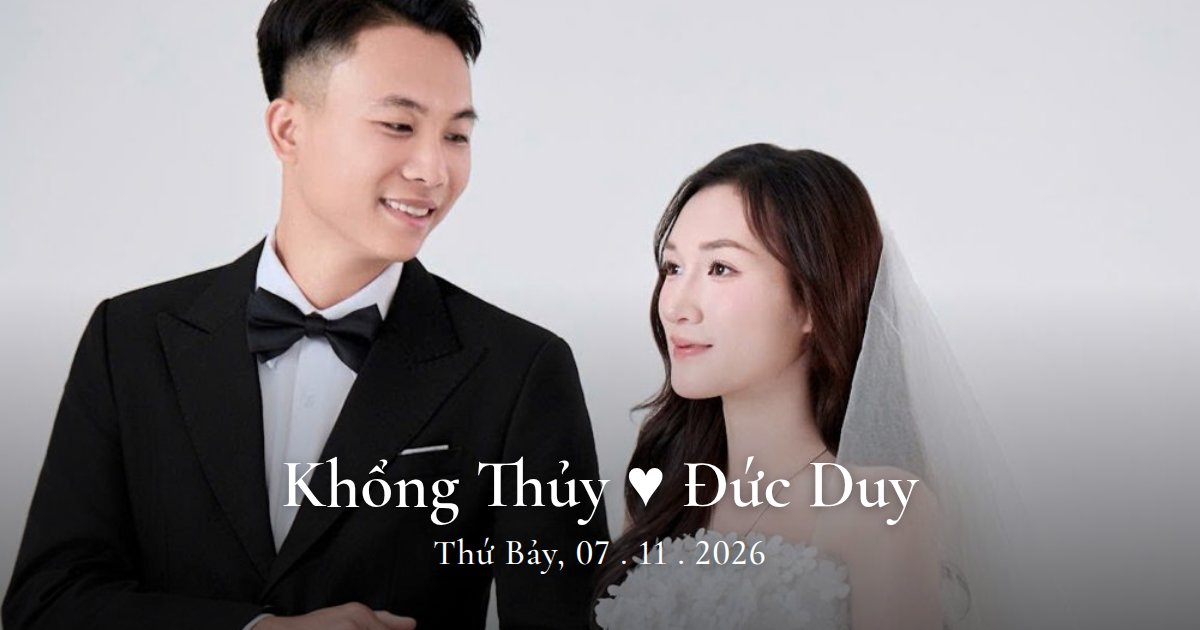
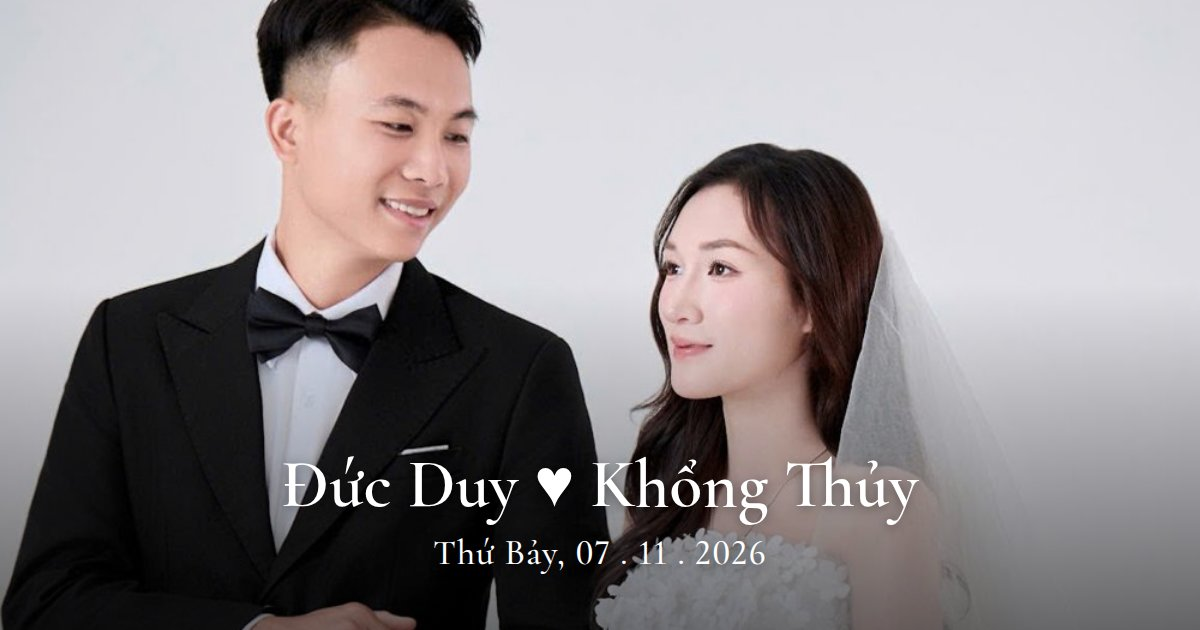
feat: thiệp Đức Duy & Khổng Thủy — tên chú rể đứng trước theo yêu cầu khách (issue #23)

Changed region(s): [[0.2467, 0.7238, 0.74, 0.8444]]

diff --git a/dist/assets/index-DEzTMPpJ.js b/dist/assets/index-DEzTMPpJ.js
@@ -97,7 +97,7 @@ Error generating stack: `+i.message+`
  *
  * This source code is licensed under the ISC license.
  * See the LICENSE file in the root directory of this source tree.
- */const ep=yt("X",[["path",{d:"M18 6 6 18",key:"1bl5f8"}],["path",{d:"m6 6 12 12",key:"d8bk6v"}]]),rl="Số nhà 8, ngõ Mã Lẽ 2, thôn Thống Nhất, xã Phùng Nguyên, tỉnh Phú Thọ",Hi="Số nhà 50, ngõ Sa Lộc 4, thôn Tứ Xã, xã Phùng Nguyên, tỉnh Phú Thọ",Xu=rl,Zu="Tứ Xã, Lâm Thao, Phú Thọ",tp={label:"Nhà Gái",father:"Khổng Văn Xuân",mother:"Khổng Thị Sơn",address:rl},np={label:"Nhà Trai",father:"Chử Đức Thụy",mother:"Khổng Thị Phương",address:Hi},rp={hero:{names:["Khổng Thủy","Đức Duy"]},couple:{groom:{role:"Chú rể",name:"Đức Duy"},bride:{role:"Cô dâu",name:"Khổng Thủy"}},families:{sides:[np,tp],fullNames:["Khổng Thủy","Đức Duy"]},invitation:{kicker:"Trân Trọng Kính Mời",defaultGuest:"Quý khách",title:"Đến Dự Và Chia Sẻ Niềm Vui",dateParts:["07","11","2026"]},events:{mapLabel:"Xem vị trí",items:[{id:"tiec-mung-cuoi",title:"Tiệc Mừng Cưới",time:"16:00 | Thứ Sáu",date:"06. 11. 2026",lunar:"( Tức Ngày 28 Tháng 09 Năm Bính Ngọ )",places:[{label:"Tại Tư Gia Nhà Trai",address:Hi,mapQuery:Zu},{label:"Tại Tư Gia Nhà Gái",address:rl,mapQuery:Xu}]},{id:"vu-quy",title:"Lễ Vu Quy",time:"08:30 | Thứ Bảy",date:"07. 11. 2026",lunar:"( Tức Ngày 29 Tháng 09 Năm Bính Ngọ )",note:"Nhà trai xuất phát đón dâu lúc 08:05",places:[{label:"Tại Tư Gia Nhà Gái",address:rl,mapQuery:Xu}]},{id:"thanh-hon",title:"Lễ Thành Hôn",time:"10:00 | Thứ Bảy",date:"07. 11. 2026",lunar:"( Tức Ngày 29 Tháng 09 Năm Bính Ngọ )",places:[{label:"Tại Tư Gia Nhà Trai",address:Hi,mapQuery:Zu}]}]},countdown:{title:"Đếm Ngược Ngày Vui",target:"2026-11-07T10:00:00+07:00",labels:["Ngày","Giờ","Phút","Giây"]},calendar:{dateIso:"2026-11-07"},rsvp:{show:!1},gift:{button:"Gửi Mừng Cưới",title:"Hộp Quà Mừng Cưới",copyLabel:"Copy STK",copiedLabel:"Đã copy",saveQrLabel:"Lưu ảnh QR",accounts:[{holder:"CHU DUC DUY",number:"81996199688888",bank:"MB Bank",qr:"/images/qr-mbbank.png"},{holder:"KHONG THI THUY",number:"1032473835",bank:"Vietcombank",qr:"/images/qr-vietcombank.png"}]},thanks:{title:"Thank You",text:"Từ tận đáy lòng, chúng mình cảm ơn bạn đã dành tình cảm và sự hiện diện cho ngày vui này. Chính bạn đã góp phần làm nên một kỷ niệm hạnh phúc mà chúng mình sẽ luôn trân trọng."},music:{src:"/music/beautiful-in-white.mp3",volume:.45}},Se={hero:"/images/studio-1.jpg",polaroids:["/images/no-1.jpg","/images/no-4.jpg"],dateStrip:["/images/studio-2.jpg","/images/aodai-1.jpg","/images/no-3.jpg"],circle:"/images/aodai-3.jpg",album:["/images/aodai-2.jpg","/images/no-2.jpg","/images/no-5.jpg","/images/aodai-4.jpg","/images/studio-4.jpg","/images/studio-3.jpg","/images/aodai-1.jpg","/images/no-1.jpg"],gift:"/images/no-4.jpg",thankYou:"/images/studio-3.jpg",deco:{saveTheDate:"/images/deco-save-the-date.png",weekdays:"/images/deco-weekdays.png",album:"/images/deco-album.png",leafRing:"/images/deco-leaf-ring.png"}},Ju="guest-links:names",lp="/tao-link";function ip(){try{return window.location.pathname.replace(/\/+$/,"")===lp}catch{return!1}}function Xl(e,t){return`${e}/?khach=${encodeURIComponent(t)}`}async function op(e){try{return await navigator.clipboard.writeText(e),!0}catch{const t=document.createElement("textarea");t.value=e,t.style.position="fixed",t.style.opacity="0",document.body.appendChild(t),t.select();const n=document.execCommand("copy");return document.body.removeChild(t),n}}function qu({text:e,label:t="Sao chép",className:n=""}){const[r,l]=L.useState(!1);async function i(){await op(e)&&(l(!0),setTimeout(()=>l(!1),1500))}return f.jsxs("button",{type:"button",onClick:i,className:`inline-flex shrink-0 items-center gap-1.5 rounded-lg px-3 py-1.5 text-sm font-semibold transition ${r?"bg-green-600 text-white":"bg-[#9e3745] text-white hover:bg-[#7e2b37]"} ${n}`,children:[r?f.jsx(hc,{className:"h-4 w-4","aria-hidden":!0}):f.jsx(vc,{className:"h-4 w-4","aria-hidden":!0}),r?"Đã chép":t]})}function up(){const e=L.useMemo(()=>window.location.origin,[]),[t,n]=L.useState(()=>{try{return localStorage.getItem(Ju)??""}catch{return""}}),[r,l]=L.useState(!0);L.useEffect(()=>{try{localStorage.setItem(Ju,t)}catch{}},[t]);const i=L.useMemo(()=>{const s=new Set;return t.split(`
+ */const ep=yt("X",[["path",{d:"M18 6 6 18",key:"1bl5f8"}],["path",{d:"m6 6 12 12",key:"d8bk6v"}]]),rl="Số nhà 8, ngõ Mã Lẽ 2, thôn Thống Nhất, xã Phùng Nguyên, tỉnh Phú Thọ",Hi="Số nhà 50, ngõ Sa Lộc 4, thôn Tứ Xã, xã Phùng Nguyên, tỉnh Phú Thọ",Xu=rl,Zu="Tứ Xã, Lâm Thao, Phú Thọ",tp={label:"Nhà Gái",father:"Khổng Văn Xuân",mother:"Khổng Thị Sơn",address:rl},np={label:"Nhà Trai",father:"Chử Đức Thụy",mother:"Khổng Thị Phương",address:Hi},rp={hero:{names:["Đức Duy","Khổng Thủy"]},couple:{groom:{role:"Chú rể",name:"Đức Duy"},bride:{role:"Cô dâu",name:"Khổng Thủy"}},families:{sides:[np,tp],fullNames:["Đức Duy","Khổng Thủy"]},invitation:{kicker:"Trân Trọng Kính Mời",defaultGuest:"Quý khách",title:"Đến Dự Và Chia Sẻ Niềm Vui",dateParts:["07","11","2026"]},events:{mapLabel:"Xem vị trí",items:[{id:"tiec-mung-cuoi",title:"Tiệc Mừng Cưới",time:"16:00 | Thứ Sáu",date:"06. 11. 2026",lunar:"( Tức Ngày 28 Tháng 09 Năm Bính Ngọ )",places:[{label:"Tại Tư Gia Nhà Trai",address:Hi,mapQuery:Zu},{label:"Tại Tư Gia Nhà Gái",address:rl,mapQuery:Xu}]},{id:"vu-quy",title:"Lễ Vu Quy",time:"08:30 | Thứ Bảy",date:"07. 11. 2026",lunar:"( Tức Ngày 29 Tháng 09 Năm Bính Ngọ )",note:"Nhà trai xuất phát đón dâu lúc 08:05",places:[{label:"Tại Tư Gia Nhà Gái",address:rl,mapQuery:Xu}]},{id:"thanh-hon",title:"Lễ Thành Hôn",time:"10:00 | Thứ Bảy",date:"07. 11. 2026",lunar:"( Tức Ngày 29 Tháng 09 Năm Bính Ngọ )",places:[{label:"Tại Tư Gia Nhà Trai",address:Hi,mapQuery:Zu}]}]},countdown:{title:"Đếm Ngược Ngày Vui",target:"2026-11-07T10:00:00+07:00",labels:["Ngày","Giờ","Phút","Giây"]},calendar:{dateIso:"2026-11-07"},rsvp:{show:!1},gift:{button:"Gửi Mừng Cưới",title:"Hộp Quà Mừng Cưới",copyLabel:"Copy STK",copiedLabel:"Đã copy",saveQrLabel:"Lưu ảnh QR",accounts:[{holder:"CHU DUC DUY",number:"81996199688888",bank:"MB Bank",qr:"/images/qr-mbbank.png"},{holder:"KHONG THI THUY",number:"1032473835",bank:"Vietcombank",qr:"/images/qr-vietcombank.png"}]},thanks:{title:"Thank You",text:"Từ tận đáy lòng, chúng mình cảm ơn bạn đã dành tình cảm và sự hiện diện cho ngày vui này. Chính bạn đã góp phần làm nên một kỷ niệm hạnh phúc mà chúng mình sẽ luôn trân trọng."},music:{src:"/music/beautiful-in-white.mp3",volume:.45}},Se={hero:"/images/studio-1.jpg",polaroids:["/images/no-1.jpg","/images/no-4.jpg"],dateStrip:["/images/studio-2.jpg","/images/aodai-1.jpg","/images/no-3.jpg"],circle:"/images/aodai-3.jpg",album:["/images/aodai-2.jpg","/images/no-2.jpg","/images/no-5.jpg","/images/aodai-4.jpg","/images/studio-4.jpg","/images/studio-3.jpg","/images/aodai-1.jpg","/images/no-1.jpg"],gift:"/images/no-4.jpg",thankYou:"/images/studio-3.jpg",deco:{saveTheDate:"/images/deco-save-the-date.png",weekdays:"/images/deco-weekdays.png",album:"/images/deco-album.png",leafRing:"/images/deco-leaf-ring.png"}},Ju="guest-links:names",lp="/tao-link";function ip(){try{return window.location.pathname.replace(/\/+$/,"")===lp}catch{return!1}}function Xl(e,t){return`${e}/?khach=${encodeURIComponent(t)}`}async function op(e){try{return await navigator.clipboard.writeText(e),!0}catch{const t=document.createElement("textarea");t.value=e,t.style.position="fixed",t.style.opacity="0",document.body.appendChild(t),t.select();const n=document.execCommand("copy");return document.body.removeChild(t),n}}function qu({text:e,label:t="Sao chép",className:n=""}){const[r,l]=L.useState(!1);async function i(){await op(e)&&(l(!0),setTimeout(()=>l(!1),1500))}return f.jsxs("button",{type:"button",onClick:i,className:`inline-flex shrink-0 items-center gap-1.5 rounded-lg px-3 py-1.5 text-sm font-semibold transition ${r?"bg-green-600 text-white":"bg-[#9e3745] text-white hover:bg-[#7e2b37]"} ${n}`,children:[r?f.jsx(hc,{className:"h-4 w-4","aria-hidden":!0}):f.jsx(vc,{className:"h-4 w-4","aria-hidden":!0}),r?"Đã chép":t]})}function up(){const e=L.useMemo(()=>window.location.origin,[]),[t,n]=L.useState(()=>{try{return localStorage.getItem(Ju)??""}catch{return""}}),[r,l]=L.useState(!0);L.useEffect(()=>{try{localStorage.setItem(Ju,t)}catch{}},[t]);const i=L.useMemo(()=>{const s=new Set;return t.split(`
 `).map(a=>a.replace(/\s+/g," ").trim()).filter(a=>a&&!s.has(a.toLowerCase())&&s.add(a.toLowerCase()))},[t]),o=i.map(s=>r?`${s}: ${Xl(e,s)}`:Xl(e,s)),u=document.title;return f.jsx("div",{className:"min-h-screen bg-[#f8f6f2] px-4 py-8 font-sans text-[#1f1f1f]",children:f.jsxs("main",{className:"mx-auto max-w-[640px]",children:[f.jsx("h1",{className:"text-2xl font-bold",children:"Tạo link mời khách"}),f.jsxs("p",{className:"mt-1 text-sm text-black/60",children:["Thiệp: ",f.jsx("b",{children:u})]}),f.jsx("label",{className:"mt-6 block text-sm font-semibold",htmlFor:"guest-names",children:"Tên khách mời — mỗi dòng một người, ghi cả xưng hô (vd: Cô Lan, Gia đình bác Hùng, Anh Tuấn)"}),f.jsx("textarea",{id:"guest-names",value:t,onChange:s=>n(s.target.value),rows:8,placeholder:`Cô Lan
 Gia đình bác Hùng
 Anh Tuấn & chị Mai`,className:"mt-2 w-full rounded-xl border border-black/20 bg-white p-3 text-base outline-none focus:border-[#9e3745]"}),f.jsx("p",{className:"mt-1 text-xs text-black/50",children:"Danh sách được lưu trên trình duyệt này, mở lại trang vẫn còn."}),i.length>0&&f.jsxs(f.Fragment,{children:[f.jsxs("div",{className:"mt-6 flex flex-wrap items-center justify-between gap-3",children:[f.jsxs("p",{className:"font-semibold",children:[i.length," link"]}),f.jsxs("div",{className:"flex items-center gap-3",children:[f.jsxs("label",{className:"flex items-center gap-1.5 text-sm",children:[f.jsx("input",{type:"checkbox",checked:r,onChange:s=>l(s.target.checked)}),"Kèm tên khi chép tất cả"]}),f.jsx(qu,{text:o.join(`

diff --git a/dist/index.html b/dist/index.html
@@ -3,20 +3,20 @@
   <head>
     <meta charset="UTF-8" />
     <meta name="viewport" content="width=device-width, initial-scale=1.0" />
-    <title>Khổng Thủy &amp; Đức Duy</title>
-    <meta name="description" content="Thiệp cưới Khổng Thủy &amp; Đức Duy — Thứ Bảy, 07.11.2026. Trân trọng kính mời." />
+    <title>Đức Duy &amp; Khổng Thủy</title>
+    <meta name="description" content="Thiệp cưới Đức Duy &amp; Khổng Thủy — Thứ Bảy, 07.11.2026. Trân trọng kính mời." />
     <!-- Link preview (Zalo, Facebook, iMessage, v.v.) dùng og:title / og:description -->
     <meta property="og:type" content="website" />
-    <meta property="og:site_name" content="Khổng Thủy &amp; Đức Duy" />
-    <meta property="og:title" content="Khổng Thủy &amp; Đức Duy" />
-    <meta property="og:description" content="Thiệp cưới Khổng Thủy &amp; Đức Duy — Thứ Bảy, 07.11.2026. Trân trọng kính mời." />
+    <meta property="og:site_name" content="Đức Duy &amp; Khổng Thủy" />
+    <meta property="og:title" content="Đức Duy &amp; Khổng Thủy" />
+    <meta property="og:description" content="Thiệp cưới Đức Duy &amp; Khổng Thủy — Thứ Bảy, 07.11.2026. Trân trọng kính mời." />
     <meta property="og:locale" content="vi_VN" />
     <meta property="og:image" content="https://khongthuy-ducduy.vercel.app/images/og.jpg" />
     <meta property="og:image:width" content="1200" />
     <meta property="og:image:height" content="630" />
     <meta name="twitter:card" content="summary_large_image" />
-    <meta name="twitter:title" content="Khổng Thủy &amp; Đức Duy" />
-    <meta name="twitter:description" content="Thiệp cưới Khổng Thủy &amp; Đức Duy — Thứ Bảy, 07.11.2026. Trân trọng kính mời." />
+    <meta name="twitter:title" content="Đức Duy &amp; Khổng Thủy" />
+    <meta name="twitter:description" content="Thiệp cưới Đức Duy &amp; Khổng Thủy — Thứ Bảy, 07.11.2026. Trân trọng kính mời." />
     <meta name="twitter:image" content="https://khongthuy-ducduy.vercel.app/images/og.jpg" />
     <link rel="preconnect" href="https://fonts.googleapis.com" />
     <link rel="preconnect" href="https://fonts.gstatic.com" crossorigin />
@@ -24,7 +24,7 @@
       href="https://fonts.googleapis.com/css2?family=Cormorant+Garamond:ital,wght@0,400;0,500;0,700;1,400&family=Cormorant+Upright:wght@400;600;700&family=Ephesis&family=Great+Vibes&family=Imperial+Script&family=Lora:wght@400;700&family=Montserrat:wght@400;500;600;700&family=Oswald:wght@400;500;700&family=Prata&family=Quicksand:wght@400;500;600;700&family=Tinos:ital,wght@0,400;0,700;1,400&display=swap"
       rel="stylesheet"
     />
-    <script type="module" crossorigin src="/assets/index-BdLiyEoo.js"></script>
+    <script type="module" crossorigin src="/assets/index-DEzTMPpJ.js"></script>
     <link rel="stylesheet" crossorigin href="/assets/index-BvgmNY9y.css">
   </head>
   <body>

diff --git a/index.html b/index.html
@@ -3,20 +3,20 @@
   <head>
     <meta charset="UTF-8" />
     <meta name="viewport" content="width=device-width, initial-scale=1.0" />
-    <title>Khổng Thủy &amp; Đức Duy</title>
-    <meta name="description" content="Thiệp cưới Khổng Thủy &amp; Đức Duy — Thứ Bảy, 07.11.2026. Trân trọng kính mời." />
+    <title>Đức Duy &amp; Khổng Thủy</title>
+    <meta name="description" content="Thiệp cưới Đức Duy &amp; Khổng Thủy — Thứ Bảy, 07.11.2026. Trân trọng kính mời." />
     <!-- Link preview (Zalo, Facebook, iMessage, v.v.) dùng og:title / og:description -->
     <meta property="og:type" content="website" />
-    <meta property="og:site_name" content="Khổng Thủy &amp; Đức Duy" />
-    <meta property="og:title" content="Khổng Thủy &amp; Đức Duy" />
-    <meta property="og:description" content="Thiệp cưới Khổng Thủy &amp; Đức Duy — Thứ Bảy, 07.11.2026. Trân trọng kính mời." />
+    <meta property="og:site_name" content="Đức Duy &amp; Khổng Thủy" />
+    <meta property="og:title" content="Đức Duy &amp; Khổng Thủy" />
+    <meta property="og:description" content="Thiệp cưới Đức Duy &amp; Khổng Thủy — Thứ Bảy, 07.11.2026. Trân trọng kính mời." />
     <meta property="og:locale" content="vi_VN" />
     <meta property="og:image" content="https://khongthuy-ducduy.vercel.app/images/og.jpg" />
     <meta property="og:image:width" content="1200" />
     <meta property="og:image:height" content="630" />
     <meta name="twitter:card" content="summary_large_image" />
-    <meta name="twitter:title" content="Khổng Thủy &amp; Đức Duy" />
-    <meta name="twitter:description" content="Thiệp cưới Khổng Thủy &amp; Đức Duy — Thứ Bảy, 07.11.2026. Trân trọng kính mời." />
+    <meta name="twitter:title" content="Đức Duy &amp; Khổng Thủy" />
+    <meta name="twitter:description" content="Thiệp cưới Đức Duy &amp; Khổng Thủy — Thứ Bảy, 07.11.2026. Trân trọng kính mời." />
     <meta name="twitter:image" content="https://khongthuy-ducduy.vercel.app/images/og.jpg" />
     <link rel="preconnect" href="https://fonts.googleapis.com" />
     <link rel="preconnect" href="https://fonts.gstatic.com" crossorigin />

diff --git a/src/content.js b/src/content.js
@@ -24,7 +24,7 @@ export const content = {
   hero: {
     subtitle: 'Save The Date',
     /** Hiển thị theo đúng thứ tự này (tên trên, "&", tên dưới) */
-    names: ['Khổng Thủy', 'Đức Duy'],
+    names: ['Đức Duy', 'Khổng Thủy'],
     dateLine: '07 . 11 . 2026',
   },
 
@@ -38,7 +38,7 @@ export const content = {
     /** Hai cột gia đình, hiển thị trái → phải theo thứ tự này */
     sides: [GROOM_SIDE, BRIDE_SIDE],
     /** Tên cô dâu & chú rể — dòng ký tên cuối mục Thank You */
-    fullNames: ['Khổng Thủy', 'Đức Duy'],
+    fullNames: ['Đức Duy', 'Khổng Thủy'],
   },
 
   invitation: {
